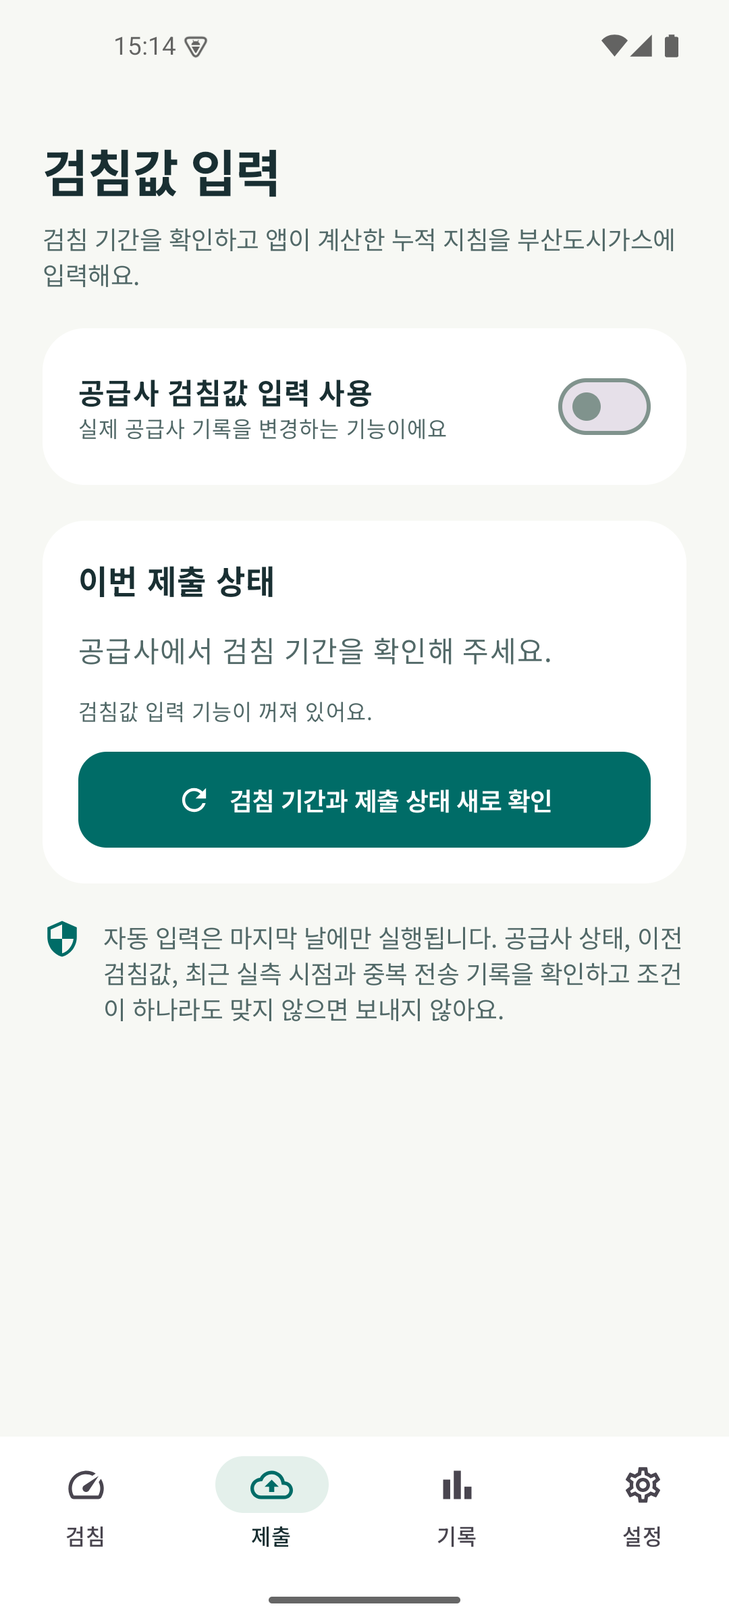
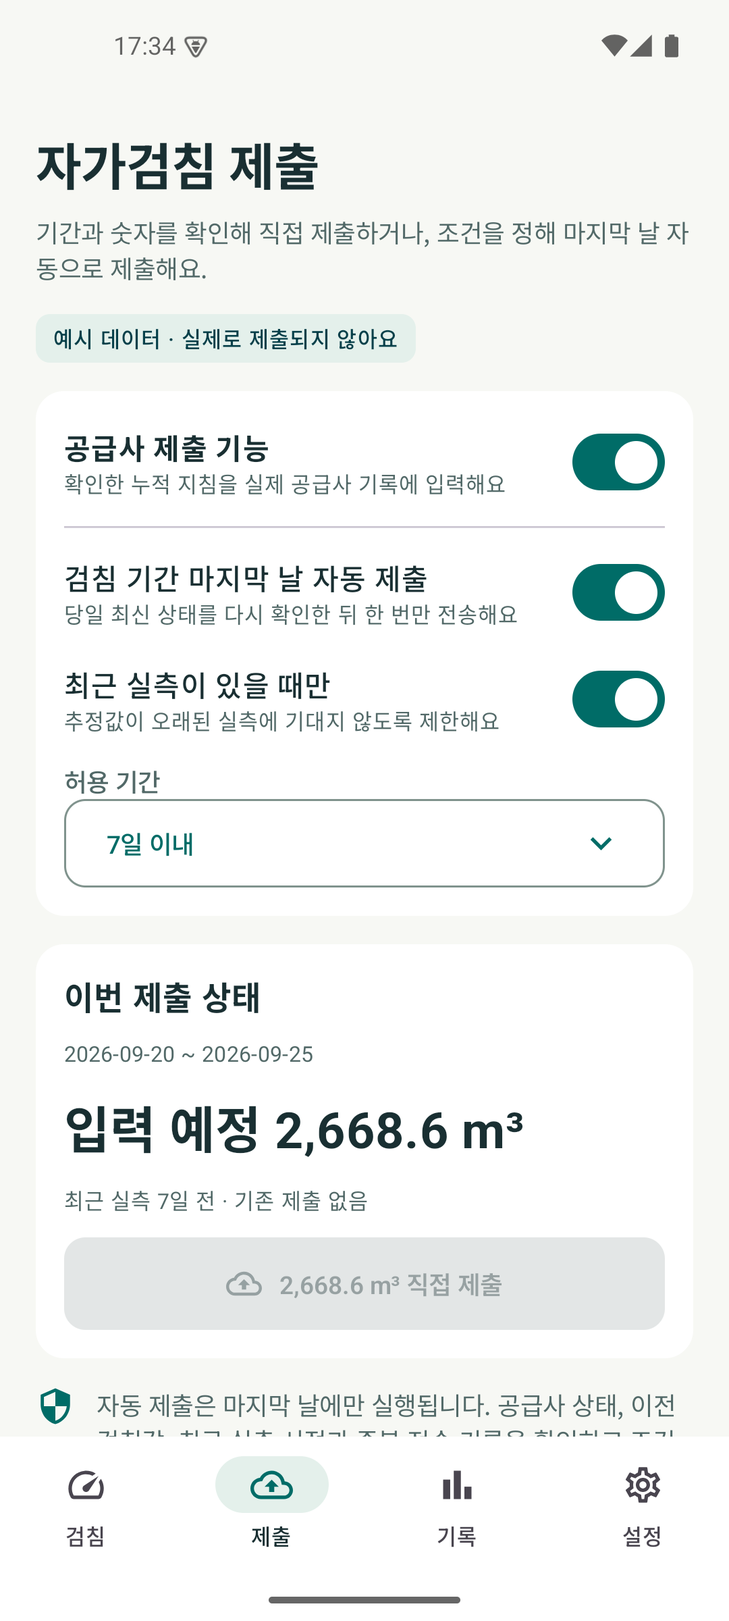
Center README on adaptive gas estimation (#20)

diff --git a/app/src/main/java/dev/mahlernim/gasselfmeter/MainActivity.kt b/app/src/main/java/dev/mahlernim/gasselfmeter/MainActivity.kt
@@ -377,13 +377,17 @@ class MainActivity : ComponentActivity() {
     val settings = data.submissionSettings
     val decision = SubmissionPolicy.decide(data, target, now, automatic = false)
     val provider = Providers.get(data.profile.providerId)
+    val demo = data.profile.meter == "demo"
+    val demoDate = dateOf(now)
+    val demoValue = Estimator.estimate(data, now).reading?.let { kotlin.math.round(it * 10.0) / 10.0 }
     Page {
-        Title("검침값 입력", "검침 기간을 확인하고 앱이 계산한 누적 지침을 ${provider.name}에 입력해요.")
+        Title("자가검침 제출", "기간과 숫자를 확인해 직접 제출하거나, 조건을 정해 마지막 날 자동으로 제출해요.")
+        if (demo) Badge("예시 데이터 · 실제로 제출되지 않아요")
         SurfaceCard {
             Row(verticalAlignment = Alignment.CenterVertically) {
                 Column(Modifier.weight(1f)) {
-                    Text("공급사 검침값 입력 사용", fontWeight = FontWeight.Bold)
-                    Text("실제 공급사 기록을 변경하는 기능이에요", color = Muted, style = MaterialTheme.typography.bodySmall)
+                    Text("공급사 제출 기능", fontWeight = FontWeight.Bold)
+                    Text("확인한 누적 지침을 실제 공급사 기록에 입력해요", color = Muted, style = MaterialTheme.typography.bodySmall)
                 }
                 Switch(checked = settings.enabled, onCheckedChange = { changeSettings(it, settings.automatic, settings.requireRecentCheck, settings.recentDays) })
             }
@@ -392,12 +396,12 @@ class MainActivity : ComponentActivity() {
                 if (provider.automaticSubmission) {
                     Row(verticalAlignment = Alignment.CenterVertically) {
                         Column(Modifier.weight(1f)) {
-                            Text("검침 기간 마지막 날 자동 입력", fontWeight = FontWeight.Medium)
+                            Text("검침 기간 마지막 날 자동 제출", fontWeight = FontWeight.Medium)
                             Text("당일 최신 상태를 다시 확인한 뒤 한 번만 전송해요", color = Muted, style = MaterialTheme.typography.bodySmall)
                         }
                         Switch(checked = settings.automatic, onCheckedChange = { changeSettings(true, it, settings.requireRecentCheck, settings.recentDays) })
                     }
-                } else Text("이 공급사는 사용자가 값을 확인하는 직접 입력만 지원해요.", color = Muted, style = MaterialTheme.typography.bodySmall)
+                } else Text("이 공급사는 사용자가 값을 확인하는 직접 제출만 지원해요.", color = Muted, style = MaterialTheme.typography.bodySmall)
                 Row(verticalAlignment = Alignment.CenterVertically) {
                     Column(Modifier.weight(1f)) {
                         Text("최근 실측이 있을 때만", fontWeight = FontWeight.Medium)
@@ -408,12 +412,18 @@ class MainActivity : ComponentActivity() {
                 if (settings.requireRecentCheck) Choice("허용 기간", "${settings.recentDays}일 이내", (1..30).map { "${it}일 이내" }) {
                     changeSettings(true, settings.automatic, true, it.substringBefore("일").toInt())
                 }
-                if (settings.automatic && data.credentials == null) Text("자동 입력을 사용하려면 설정에서 로그인 정보를 암호화해 저장해야 해요.", color = MaterialTheme.colorScheme.error, style = MaterialTheme.typography.bodySmall)
+                if (settings.automatic && data.credentials == null && !demo) Text("자동 제출을 사용하려면 설정에서 로그인 정보를 암호화해 저장해야 해요.", color = MaterialTheme.colorScheme.error, style = MaterialTheme.typography.bodySmall)
             }
         }
         SurfaceCard {
             Text("이번 제출 상태", fontWeight = FontWeight.Bold, fontSize = 18.sp)
-            if (target == null) {
+            if (demo) {
+                val month = YearMonth.from(demoDate)
+                Text("${month.atDay(20)} ~ ${month.atDay(25)}", color = Muted, style = MaterialTheme.typography.bodySmall)
+                Text(demoValue?.let { "입력 예정 ${decimalText(it)} m³" } ?: "입력할 숫자를 계산하는 중", fontSize = 28.sp, fontWeight = FontWeight.Bold)
+                Text("최근 실측 7일 전 · 기존 제출 없음", color = Muted, style = MaterialTheme.typography.bodySmall)
+                ActionButton(demoValue?.let { "${decimalText(it)} m³ 직접 제출" } ?: "직접 제출", Icons.Outlined.CloudUpload, false) {}
+            } else if (target == null) {
                 Text("공급사에서 검침 기간을 확인해 주세요.", color = Muted)
             } else {
                 Text("${target.start} ~ ${target.end}", color = Muted, style = MaterialTheme.typography.bodySmall)
@@ -423,11 +433,13 @@ class MainActivity : ComponentActivity() {
                     else -> Text("아직 입력할 수 없어요", fontSize = 23.sp, fontWeight = FontWeight.Bold)
                 }
             }
-            Text(decision.reason, color = Muted, style = MaterialTheme.typography.bodySmall)
-            ActionButton("검침 기간과 제출 상태 새로 확인", Icons.Outlined.Refresh, !busy, refresh)
-            if (decision.allowed && decision.value != null) ActionButton("${decimalText(decision.value)} m³ 직접 입력", Icons.Outlined.CloudUpload, !busy) { submit(decision.value) }
+            if (!demo) {
+                Text(decision.reason, color = Muted, style = MaterialTheme.typography.bodySmall)
+                ActionButton("검침 기간과 제출 상태 새로 확인", Icons.Outlined.Refresh, !busy, refresh)
+                if (decision.allowed && decision.value != null) ActionButton("${decimalText(decision.value)} m³ 직접 제출", Icons.Outlined.CloudUpload, !busy) { submit(decision.value) }
+            }
         }
-        Hint(Icons.Outlined.Security, "자동 입력은 마지막 날에만 실행됩니다. 공급사 상태, 이전 검침값, 최근 실측 시점과 중복 전송 기록을 확인하고 조건이 하나라도 맞지 않으면 보내지 않아요.")
+        Hint(Icons.Outlined.Security, "자동 제출은 마지막 날에만 실행됩니다. 공급사 상태, 이전 검침값, 최근 실측 시점과 중복 전송 기록을 확인하고 조건이 하나라도 맞지 않으면 보내지 않아요.")
         if (data.submissions.isNotEmpty()) Text("최근 입력 결과", style = MaterialTheme.typography.titleLarge, fontWeight = FontWeight.Bold)
         data.submissions.sortedByDescending { it.attemptedAt }.take(5).forEach { record ->
             SurfaceCard {
@@ -526,7 +538,7 @@ class MainActivity : ComponentActivity() {
             SettingAction("오류 신고", Icons.Outlined.BugReport, { open(AppLinks.ISSUES) })
             SettingAction("오픈소스 라이선스", Icons.Outlined.Policy, licenses)
         }
-        Hint(Icons.Outlined.PrivacyTip, "계정 로그인, 청구 조회와 선택한 검침값 입력만 공급사에 직접 전송해요. 계산은 기기 안에서 이루어지며 광고와 사용자 추적 기능은 없어요.")
+        Hint(Icons.Outlined.PrivacyTip, "계정 로그인, 청구 조회와 선택한 검침값 제출만 공급사에 직접 전송해요. 계산은 기기 안에서 이루어지며 광고와 사용자 추적 기능은 없어요.")
         Text("추정은 작년 계절 흐름과 최근 실측을 함께 사용해요. 외부 AI에 계정이나 생활 데이터를 보내지 않으며 정확도 범위를 보장하지 않아요.", color = Muted, style = MaterialTheme.typography.bodySmall)
         Text("똑똑 자가검침 AI  ${BuildConfig.VERSION_NAME}\n독립적으로 만든 비공식 앱이에요.", color = Muted, style = MaterialTheme.typography.bodySmall)
     }

diff --git a/app/src/androidTest/java/dev/mahlernim/gasselfmeter/AppFlowTest.kt b/app/src/androidTest/java/dev/mahlernim/gasselfmeter/AppFlowTest.kt
@@ -18,7 +18,7 @@ class AppFlowTest {
         InstrumentationRegistry.getInstrumentation().waitForIdleSync()
         android.os.SystemClock.sleep(750)
         val image = InstrumentationRegistry.getInstrumentation().uiAutomation.takeScreenshot()
-        File(context.filesDir, "$name.png").outputStream().use { image.compress(Bitmap.CompressFormat.PNG, 100, it) }
+        File(requireNotNull(context.getExternalFilesDir(null)), "$name.png").outputStream().use { image.compress(Bitmap.CompressFormat.PNG, 100, it) }
         image.recycle()
     }
     @Test fun onboardingDemoCalibrationPersistenceAndHistory() {
@@ -34,7 +34,11 @@ class AppFlowTest {
             compose.onNodeWithText("예시 데이터 · 실제 우리 집 기록이 아니에요").assertIsDisplayed()
             shot("02-meter")
             compose.onNodeWithText("제출", useUnmergedTree = true).performClick()
-            compose.onNodeWithText("검침값 입력").assertIsDisplayed()
+            compose.onNodeWithText("자가검침 제출").assertIsDisplayed()
+            compose.onAllNodes(isToggleable())[0].performClick()
+            compose.onNodeWithText("검침 기간 마지막 날 자동 제출").assertIsDisplayed()
+            compose.onAllNodes(isToggleable())[1].performClick()
+            compose.onNodeWithText("7일 이내").assertIsDisplayed()
             shot("03-submission")
             compose.onNodeWithText("검침", useUnmergedTree = true).performClick()
             compose.onNodeWithText("계량기 보고 확인하기").performClick()

diff --git a/README.md b/README.md
@@ -2,102 +2,130 @@
 
 # 똑똑 자가검침 AI
 
-**일주일에 한 번, 우리 집 가스를 알아가요.**
+**과거 사용량에 지금의 우리 집을 더해, 오늘의 가스를 똑똑하게 가늠해요.**
 
-별도 센서나 개발자 서버 없이 계량기 지침을 추정하고, 검침 기간에 맞춰 SK E&S 지역 도시가스 공급사에 검침값을 직접 또는 자동으로 입력하는 Android 앱입니다. 작년 같은 달과 앞뒤 달의 사용 흐름에 최근 실측값을 반영해 오늘의 누적 지침을 계산합니다.
+똑똑 자가검침 AI는 과거 도시가스 사용량과 사용자가 주기적으로 확인한 실제 계량기 숫자를 함께 반영해 현재 누적 지침과 사용량을 추정하는 Android 앱입니다. 검침 기간이 되면 확인한 값을 공급사에 직접 제출할 수 있고, 부산도시가스 이용자는 조건을 충족할 때 제출까지 자동화할 수 있습니다.
 
-[Closed Alpha 참여](#closed-alpha-참여) · [공급사 조사](docs/PROVIDERS.md) · [개인정보 안내](PRIVACY.md) · [추정 방법](docs/ESTIMATION.md)
+별도 센서나 카메라 촬영은 필요하지 않습니다. 일주일에 한 번 정도 계량기를 보고 실제 숫자를 알려주면, 오래된 사용 이력만으로 계산할 때보다 지금의 난방과 온수 사용 흐름에 맞게 추정을 계속 보정합니다.
 
-## Closed Alpha 참여
+[테스트 참여하기](#테스트-참여하기) · [내 공급사 지원 확인](#내-공급사에서는-어디까지-되나요) · [개인정보 안내](PRIVACY.md)
 
-이 앱은 Google Play Closed Alpha 테스터에게만 배포합니다. GitHub에서 APK를 배포하지 않습니다.
+## 이렇게 사용해요
 
-1. Play 스토어에서 사용할 Google 계정으로 [테스터 그룹](https://groups.google.com/g/gas-self-meter-ai)에 가입합니다.
-2. 같은 Google 계정으로 [Closed Alpha 참여 링크](https://play.google.com/apps/testing/dev.mahlernim.gasselfmeter)를 열고 테스터 등록을 완료합니다.
-3. 등록이 반영되면 Google Play에서 앱을 설치하거나 업데이트합니다.
+1. **과거 사용량을 준비해요.** 지원되는 공급사 계정으로 청구 이력을 가져오거나 청구서의 실제 사용 기간과 사용량을 직접 입력합니다.
+2. **계량기 숫자를 가끔 확인해요.** 앱이 보여주는 추정값을 실제 계량기와 맞춰 저장합니다. 주 1회 확인을 권장하지만, 알림 요일과 시간은 직접 정할 수 있습니다.
+3. **오늘의 사용량을 가늠해요.** 앱이 작년 같은 시기의 사용 흐름에 최근 실측 변화를 반영해 현재 누적 지침과 하루 사용량을 추정합니다.
+4. **자가검침값을 제출해요.** 검침 기간과 제출할 숫자를 확인한 뒤 공급사에 보냅니다. 지원되는 경우 마지막 날 자동 제출을 선택할 수도 있습니다.
 
-그룹 가입과 Play 테스터 등록은 별도 단계입니다. 설치 화면이 바로 보이지 않으면 두 단계에 같은 Google 계정을 사용했는지 확인한 뒤 잠시 후 다시 시도해 주세요.
-Closed Alpha 참여 링크는 앱 등록과 첫 테스트 출시가 완료된 뒤 활성화됩니다.
+계정 없이 가상 데이터로 먼저 둘러볼 수 있습니다. 자동 연결을 지원하지 않는 공급사에서도 과거 사용량과 계량기 숫자를 직접 입력해 추정과 알림 기능을 사용할 수 있습니다.
 
-## 할 수 있는 일
+## AI가 하는 일
 
-- 지역과 공급사를 선택하고 시작하기
-- SK E&S 지역 공급사 계정으로 계약, 과거 청구서와 검침 예정일 조회
-- 공급사의 검침 가능 기간, 입력 대상 여부와 기존 입력 상태 확인
-- 계산한 누적 지침을 사용자가 최종 확인한 뒤 공급사에 직접 입력
-- 검침 기간 마지막 날에 조건을 다시 확인하고 검침값 자동 입력
-- 마지막 실측이 기본 7일 이내인 경우에만 자동 입력하거나, 사용자가 원하면 기간 제한 없이 입력하도록 선택
-- 자동 연결을 지원하지 않는 공급사는 청구서의 실제 사용 기간과 사용량 직접 입력
-- `맞음`, `+0.1`, `−0.1`, `직접입력`으로 계량기 숫자를 조절한 뒤 실제 확인값 저장
-- 작년 계절 흐름과 최근 실측을 활용한 누적 지침, 하루 사용량 추정
-- 지침이 있는 청구 이력으로 이번 검침 기간 사용량과 참고 요금 확인
-- 사용 흐름, 확인 전 추정과 실제 숫자의 차이, 이전 기록 확인
-- 주간 알림, 계량기 교체, 백업 내보내기와 복원, 데이터 삭제
-- 가상 데이터로 계정 없이 둘러보기
+이 앱의 AI는 대화형 AI나 계량기 사진 인식이 아닙니다. 기기 안에서 실행되는 적응형 추정 기능입니다.
 
-Android 8.0 이상에서 사용할 수 있습니다. 한 기기에 한 가구를 관리합니다. 다른 가구로 바꾸기 전 기록을 내보낸 뒤 초기화해 주세요.
+- **기존 사용 흐름을 살펴요.** 작년 같은 달과 앞뒤 달의 실제 사용량으로 계절에 따른 기본 흐름을 만듭니다.
+- **지금의 생활 변화를 반영해요.** 최근에 직접 확인한 계량기 숫자 두 개가 있으면 실제 사용 속도에 맞춰 기본 흐름을 보정합니다.
+- **시간이 지나면 다시 조심스럽게 계산해요.** 마지막 확인이 오래될수록 최근 보정의 영향은 줄이고, 정보가 너무 부족하거나 오래되면 추정값을 숨깁니다.
+- **검침 시점까지 이어줘요.** 현재 누적 지침과 사용량을 가늠하고, 검침 기간에는 사용자가 확인한 값을 공급사에 제출할 수 있게 돕습니다.
 
-## 검침값 자동 입력
+계량기를 실제로 확인할 때마다 앱은 지금의 생활 패턴을 새로 반영합니다. 날씨, 난방 방식, 거주 인원처럼 가스 사용에 영향을 주는 변화가 있어도 최근 실측이 쌓이면 다음 추정에 반영됩니다.
 
-자동 입력은 단순한 알림이나 로컬 기록 기능이 아닙니다. 앱이 계산한 누적 지침을 실제 공급사의 자가검침 기록에 입력합니다. 기본값은 꺼짐이며 사용자가 제출 탭에서 명시적으로 켜야 합니다.
+추정값은 실제 검침값이 아닙니다. `맞음`, `+0.1`, `−0.1`, `직접입력` 중 어떤 방법을 사용하더라도 마지막에는 계량기를 보고 실제 숫자를 확인해야 합니다. 작년 이력이 없다면 하루 이상 간격을 둔 실측 두 번부터 최대 14일 동안 추정할 수 있습니다.
 
-앱은 검침 기간 마지막 날에 공급사 상태를 새로 조회하고, 자가검침 대상 여부, 입력 기간, 기존 제출 여부, 이전 지침, 최근 실측 시점과 로컬 전송 기록을 모두 확인합니다. 조건이 하나라도 맞지 않으면 보내지 않습니다. 전송 결과가 불확실하면 자동으로 재시도하지 않고 사용자가 공급사 홈페이지에서 확인하도록 안내합니다.
+## 무엇이 편해지나요
 
-직접 입력할 때는 전송할 값과 계약의 검침 기간을 보여주고 마지막 확인을 받습니다. 자동 입력은 최근 실측 허용 기간을 1일부터 30일까지 설정할 수 있으며, 실측 시점과 관계없이 입력하도록 선택할 수도 있습니다.
+- 지난 청구서와 최근 실측을 한곳에서 확인할 수 있습니다.
+- 계량기를 확인할 요일과 시간을 정해 알림을 받을 수 있습니다.
+- 이번 검침 기간의 누적 지침과 사용량을 미리 가늠할 수 있습니다.
+- 예상과 실제 숫자의 차이를 보면서 우리 집의 사용 흐름을 알 수 있습니다.
+- 검침 기간과 기존 제출 상태를 확인하고 같은 앱에서 자가검침값을 입력할 수 있습니다.
+- 부산도시가스에서는 사용자가 정한 안전 조건을 만족할 때 마지막 날 제출을 자동화할 수 있습니다.
 
-## 연결 범위
+## 자가검침값 제출은 이렇게 보호해요
 
-| 공급사 | 지원 범위 |
-| --- | --- |
-| 부산도시가스 | 계정 로그인, 청구 이력 자동 조회, 검침 기간 확인, 직접 입력과 조건부 자동 입력 |
-| 코원·충청·영남 구미·포항·전남·강원·전북에너지서비스 | 계정 로그인, 청구 이력 자동 조회, 검침 기간 확인과 직접 입력. 공급사별 검증 전까지 백그라운드 자동 입력은 미지원 |
-| 서울도시가스, 예스코, 인천도시가스 등 가스앱 공급사 | 직접 입력. 가스앱 참고 코드를 조사했으며 자동 연결은 미지원 |
-| 그 밖의 공급사 | 직접 입력 |
+자동 제출은 처음부터 꺼져 있습니다. 사용자가 제출 탭에서 직접 켜기 전에는 앱이 검침값을 자동으로 보내지 않습니다.
 
-공급사 이름이 목록에 있다는 뜻은 자동 연결을 지원한다는 뜻이 아닙니다. 같은 시·도 안에서도 주소에 따라 공급사가 다릅니다. 청구서의 공급사 이름을 확인해 주세요. 목록에 없으면 `다른 공급사 / 직접 입력`을 선택할 수 있습니다.
+직접 제출할 때는 공급사, 검침 기간과 전송할 숫자를 보여주고 마지막 확인을 받습니다. 자동 제출을 켠 경우에도 검침 기간 마지막 날에 공급사 상태를 새로 조회하고 다음 조건을 모두 확인합니다.
 
-부산 이력 조회는 허가받은 계정으로 읽기 전용 검증을 수행했습니다. 다른 SK E&S 지역 공급사는 공통 포털 구조와 공급사별 경로 및 회사 코드를 확인했으며, 각 지역의 실제 계정 결과가 모든 계약에서의 동작을 보장하지는 않습니다. 공급사 사이트가 변경되면 연결 업데이트가 필요할 수 있습니다.
+- 현재 계약이 자가검침 대상인지
+- 지금이 공급사가 안내한 입력 기간인지
+- 이미 제출된 값이 없는지
+- 이전 지침보다 작은 값은 아닌지
+- 최근 실측이 사용자가 정한 기간 안에 있는지
+- 같은 검침 기간에 전송을 시도한 기록이 없는지
+
+조건이 하나라도 맞지 않으면 보내지 않습니다. 전송 결과를 확정할 수 없을 때도 자동으로 다시 보내지 않고 공급사 홈페이지에서 확인하도록 안내합니다. 최근 실측 허용 기간은 1일부터 30일까지 정할 수 있으며, 사용자가 원하면 실측 시점 제한 없이 입력하도록 선택할 수도 있습니다.
+
+## 내 공급사에서는 어디까지 되나요
+
+같은 시·도 안에서도 주소에 따라 공급사가 다를 수 있습니다. 지역 이름만 보지 말고 청구서에 적힌 공급사 이름을 확인해 주세요.
+
+| 공급사 | 과거 이력 자동 조회 | 앱에서 직접 제출 | 마지막 날 자동 제출 |
+| --- | --- | --- | --- |
+| 부산도시가스 | 지원 | 지원 | 지원 |
+| 코원·충청·영남 구미·포항·전남·강원·전북에너지서비스 | 지원 | 지원 | 공급사별 검증 전까지 미지원 |
+| 서울도시가스, 예스코, 인천도시가스 등 가스앱 공급사 | 직접 입력 | 미지원 | 미지원 |
+| 그 밖의 공급사 | 직접 입력 | 미지원 | 미지원 |
+
+목록에 없는 공급사는 `다른 공급사 / 직접 입력`으로 시작할 수 있습니다. 여기서 직접 입력은 청구서의 사용량을 앱에 손으로 기록한다는 뜻이며 공급사 제출 기능을 뜻하지 않습니다. 이 방식에서도 사용량 추정, 실측 기록과 주간 알림을 사용할 수 있습니다. 공급사 사이트가 변경되면 자동 연결 기능도 업데이트가 필요할 수 있습니다.
+
+현재 실제 계정으로 청구 이력 조회가 확인된 공급사는 부산도시가스입니다. 다른 SK E&S 지역 공급사는 공통 포털 구조와 공급사별 연결 주소를 확인했지만, 모든 계약에서 같은 결과를 보장하지는 않습니다. 자가검침값 제출 기능은 실제 제출 검증을 진행 중입니다.
+
+## 추정값과 참고 요금은 어디까지 믿을 수 있나요
+
+추정값은 다음에 계량기를 확인하기 전까지 참고하는 예상치입니다. 가구별 정확도를 보장하지 않으며 날씨, 난방 방식, 거주 인원, 온수 사용과 계량기 확인 시각에 따라 실제 숫자와 차이가 날 수 있습니다. 마지막 확인이 60일보다 오래되면 과거 이력이 있더라도 추정값을 표시하지 않습니다.
+
+참고 요금은 최근 청구서에서 확인한 단가와 기본료를 바탕으로 계산합니다. 새로운 단가, 할인, 정산과 실제 발열량 변화를 모두 반영한 확정 청구액이 아니며 앱에서 요금을 납부할 수는 없습니다.
+
+## 개인정보는 어디에 저장되나요
+
+사용량, 실측 기록과 설정은 암호화해 기기에 저장합니다. 공급사 자동 연결을 선택하면 기기에서 공급사의 HTTPS 서버로 직접 로그인하고 필요한 정보를 조회합니다. 사용자가 검침값 제출을 확인하거나 자동 제출을 켠 경우에만 같은 공급사 서버로 검침값을 보냅니다.
+
+- 개발자 서버로 계정이나 생활 기록을 보내지 않습니다.
+- 외부 AI 서비스로 데이터를 보내지 않습니다.
+- 광고, 사용자 추적과 자동 오류 보고 기능이 없습니다.
+- 위치, 연락처, 카메라와 마이크 권한을 요청하지 않습니다.
+- 로그인 정보는 사용자가 선택한 경우에만 기기에 암호화해 저장합니다.
+- 내보낸 백업에는 아이디와 비밀번호가 들어가지 않습니다.
+
+이 앱은 도시가스 공급사가 만든 공식 앱이 아닙니다. 자세한 저장 항목과 삭제 방법은 [개인정보 안내](PRIVACY.md)에서 확인할 수 있습니다.
+
+## 사용 전에 알아두세요
+
+- Android 8.0 이상에서 사용할 수 있습니다.
+- 현재 한 기기에서는 한 가구만 관리할 수 있습니다.
+- 다른 가구로 바꾸기 전 기존 기록을 내보낸 뒤 데이터를 초기화해 주세요.
+- 계량기를 교체하면 이전 실측은 보관하고 새 계량기의 현재 숫자부터 다시 시작할 수 있습니다.
+- 앱을 삭제하면 기기의 암호화 키도 사라집니다. 기기를 바꾸거나 앱을 삭제하기 전에 기록을 내보내 주세요.
 
 ## 화면
 
-스크린샷은 앱에서 생성한 가상 데이터입니다. 실제 고객 정보가 아닙니다.
+아래 화면은 앱에서 생성한 가상 데이터이며 실제 고객 정보가 아닙니다.
 
 <p>
 <img src="docs/images/01-welcome.png" width="220" alt="지역과 공급사를 고르는 첫 화면">
 <img src="docs/images/02-meter.png" width="220" alt="누적 지침과 사용량을 확인하는 검침 화면">
-<img src="docs/images/03-submission.png" width="220" alt="검침값 직접 입력과 자동 입력 설정 화면">
+<img src="docs/images/03-submission.png" width="220" alt="검침값 직접 제출과 마지막 날 자동 제출 설정 화면">
 <img src="docs/images/04-history.png" width="220" alt="월별 사용 흐름과 실측 기록 화면">
 </p>
 
-## 확인과 추정
+## 테스트 참여하기
 
-`맞음`도 계량기를 실제로 본 뒤 눌러 주세요. 버튼을 누르는 것만으로 새로운 측정 정보가 생기지는 않습니다. 숫자를 조절한 후 `이 숫자로 확인`을 눌렀을 때 실측 하나로 저장합니다. 짧은 시간 안에 다시 고치면 중복 실측 대신 기존 확인을 수정합니다.
+현재 Google Play Closed Alpha에서 테스트 중이며, 등록한 테스터만 설치할 수 있습니다. GitHub에서는 APK를 배포하지 않습니다.
 
-작년 이력이 없다면 최소 하루 간격의 실제 확인 두 번이 필요합니다. 주 1회 확인을 권장합니다. 데이터가 부족하거나 오래되면 추정 숫자를 숨기고 안내합니다. ±0.1 m³는 입력 조절 단위이며 정확도 보장이 아닙니다.
+1. Play 스토어에서 사용할 Google 계정으로 [테스터 그룹](https://groups.google.com/g/gas-self-meter-ai)에 가입합니다.
+2. 같은 Google 계정으로 [테스트 참여 링크](https://play.google.com/apps/testing/dev.mahlernim.gasselfmeter)를 열고 테스터 등록을 완료합니다.
+3. 등록이 반영되면 Google Play에서 앱을 설치하거나 업데이트합니다.
 
-참고 요금은 최근 청구서의 단가와 기본료에 바탕을 둡니다. 새로운 단가, 할인, 정산, 실제 발열량 변화가 반영된 확정 청구액이 아닙니다. 사용량과 누적 지침을 구분해서 표시합니다.
+그룹 가입과 Play 테스터 등록은 서로 다른 단계입니다. 설치 화면이 보이지 않으면 두 단계에 같은 Google 계정을 사용했는지 확인한 뒤 잠시 후 다시 시도해 주세요. 테스트 참여 링크는 앱 등록과 첫 테스트 출시가 완료된 뒤 활성화됩니다.
 
-## 개인정보
+## 더 자세히 알아보기
 
-계정과 생활 기록은 Android Keystore로 보호되는 키를 사용해 기기에 암호화해 저장합니다. SK E&S 공급사 연결 시 기기에서 공급사 HTTPS 서버로 직접 로그인하고 조회하며, 사용자가 켠 경우 검침값을 공급사로 직접 전송합니다. 개발자 서버, 광고, 분석 SDK, 외부 AI API가 없습니다. 백업에는 비밀번호와 아이디를 포함하지 않습니다. 기기를 바꾸거나 앱을 삭제하기 전 백업을 내보내 주세요.
+- [개인정보 안내](PRIVACY.md)
+- [추정 방법과 한계](docs/ESTIMATION.md)
+- [공급사 지원 조사와 검증 범위](docs/PROVIDERS.md)
+- [제3자 구성요소와 출처](NOTICE.md)
 
-이 앱은 공급사의 공식 앱이 아니며 요금 납부 기능은 없습니다. 앱의 `AI`는 기기에서 실행되는 적응형 추정 계산을 뜻합니다.
+앱에서 문제가 발생하면 [GitHub 오류 신고](https://github.com/mahlernim/gas-self-meter-ai/issues)에 앱 버전과 오류 상황을 적어 주세요. 공개 글에는 비밀번호, 고객번호, 청구서 원본이나 백업 파일을 올리지 마세요.
 
-## 개발
-
-JDK 21, Android SDK 36, Gradle Wrapper를 사용합니다.
-
-```sh
-./gradlew :app:assembleDebug
-./gradlew :app:testDebugUnitTest :app:lintDebug
-# 실행 중인 에뮬레이터 또는 테스트 기기 필요
-./gradlew :app:connectedDebugAndroidTest
-```
-
-Windows에서는 `gradlew.bat`를 사용합니다. `local.properties`에 `sdk.dir`을 지정하거나 `ANDROID_HOME`을 설정합니다. [빌드와 릴리스](docs/RELEASING.md), [검증 결과](docs/VALIDATION.md)를 참고하세요.
-
-프로젝트 이름은 `gas-self-meter-ai`, Android 패키지는 `dev.mahlernim.gasselfmeter`입니다. Kotlin과 Jetpack Compose로 구현했습니다.
-
-## 출처와 라이선스
-
-조사한 제3자 프로젝트와 사용한 의존성의 출처는 [NOTICE](NOTICE.md)에 기록했습니다. 앱 소스는 [MIT](LICENSE)입니다.
+앱 소스는 [MIT 라이선스](LICENSE)로 공개합니다.
